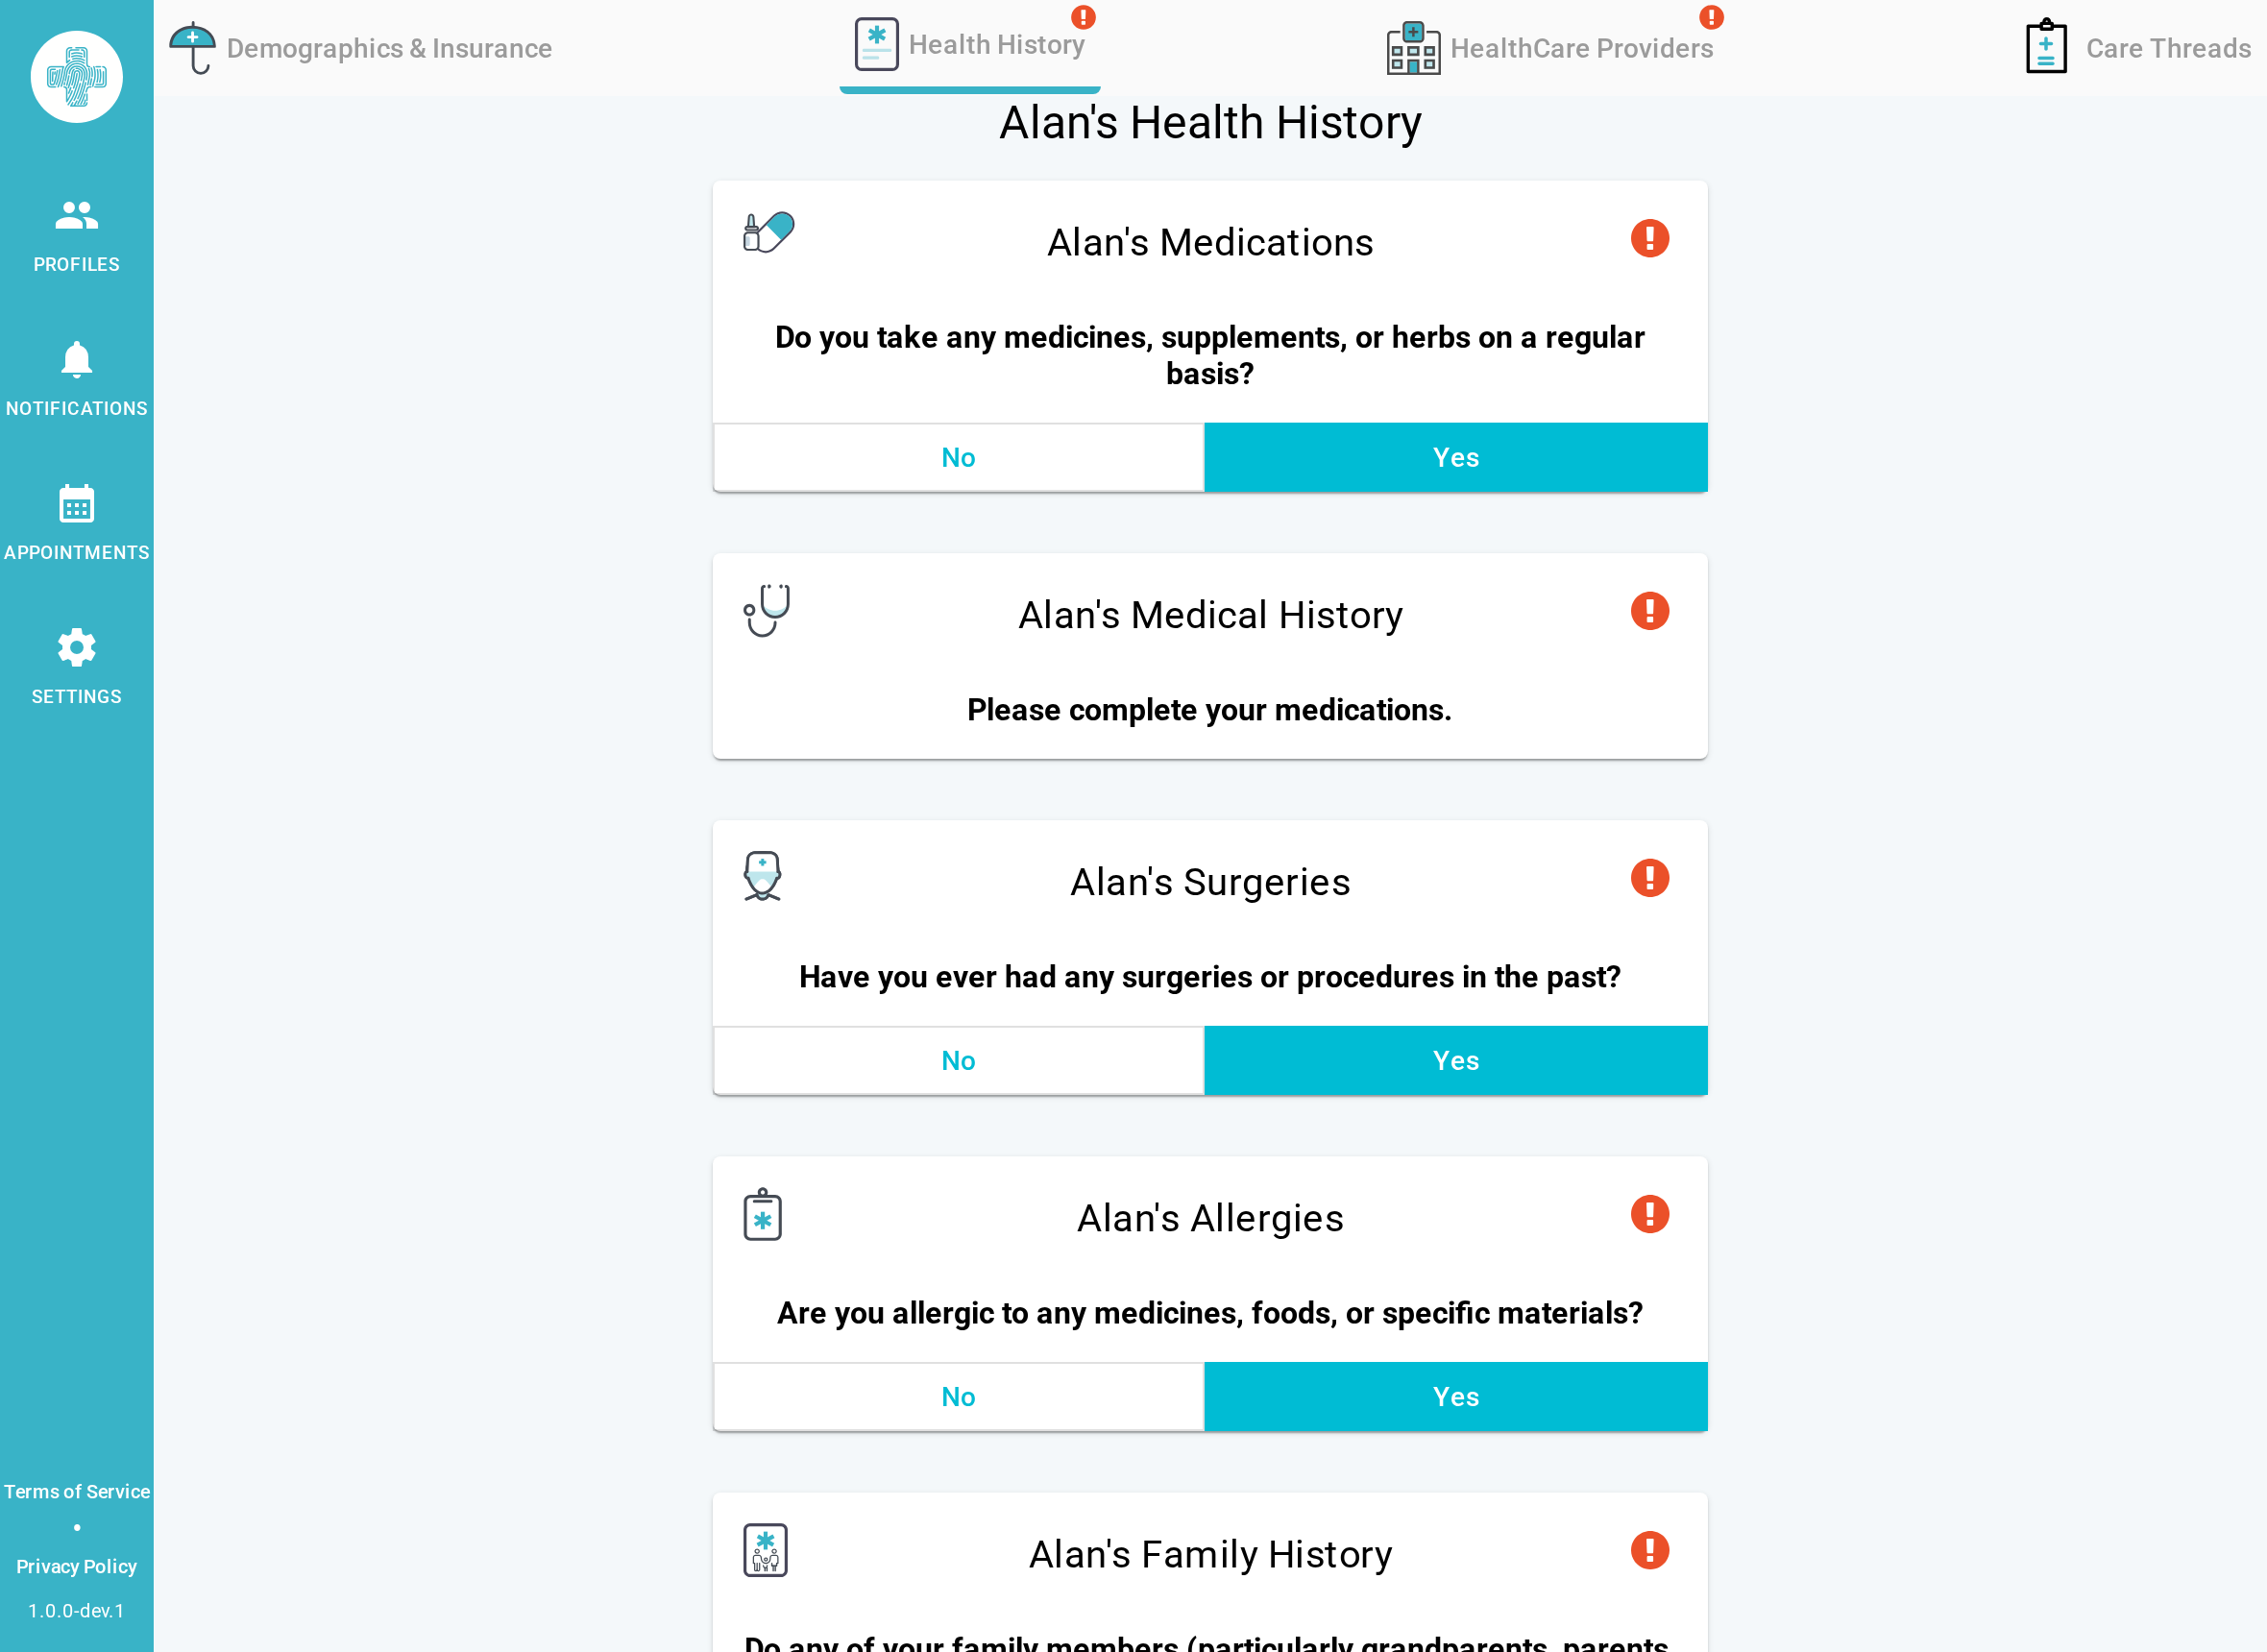
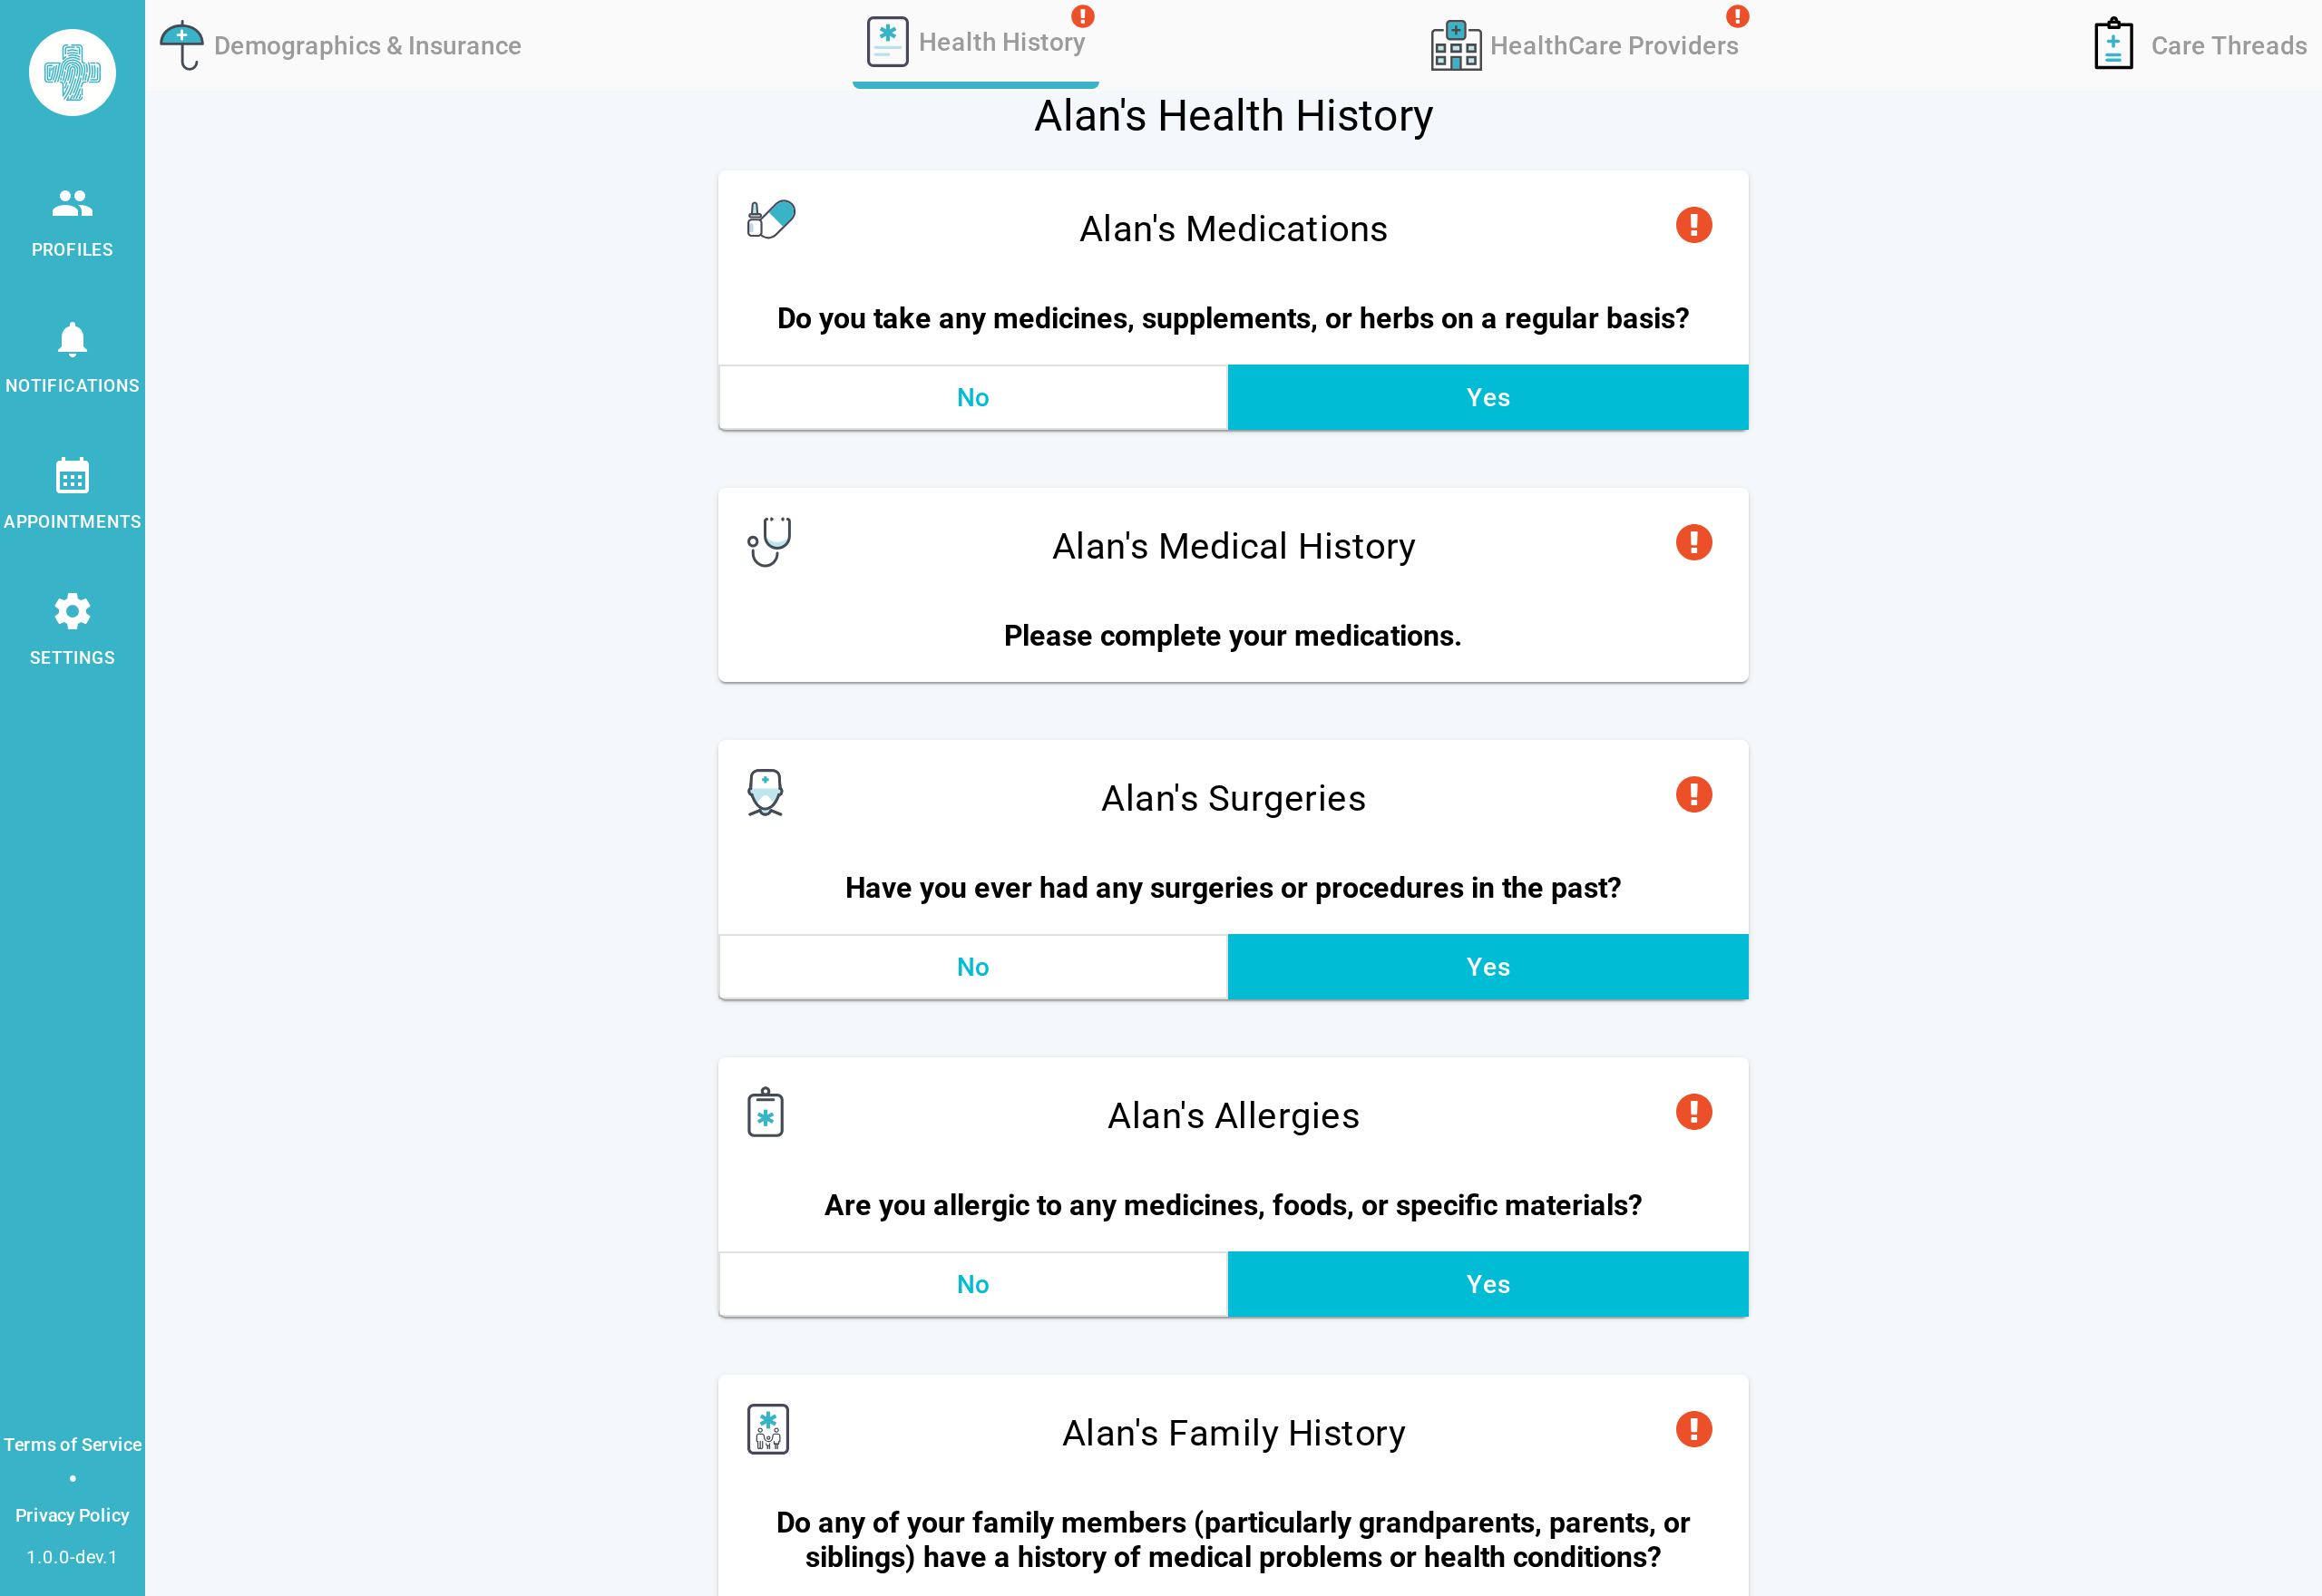
feat: Sympliact showcase — screenshot gallery, lightbox, overview + engineering
Turn the flagship Sympliact case study into a showcase:

- Fix the cropped/"smushed" screenshots — gallery thumbnails use a uniform
  16:10 frame; the lightbox shows each image full-size, uncropped.
- Add a 7-shot gallery across both apps (scheduling, patient roster, billing
  & metrics, health history, provider connections, appointments, care
  threads), all captured via each app's own mock harness (fake data, no PHI).
- Click-to-zoom lightbox with prev/next, keyboard (←/→/Esc), and backdrop close.
- Add a product OVERVIEW paragraph and an ENGINEERING technical-highlights
  section (architecture, state, auth, backend, test harness, CI/CD).
- Generic, optional data model (overview / engineering / gallery) so other
  projects can adopt the same treatment later.

Claude-Session: https://claude.ai/code/session_01Q8yTZH8pqvzmVm2hxh425N

diff --git a/src/styles/global.css b/src/styles/global.css
@@ -392,6 +392,99 @@ img.shot {
   width: 100%;
 }
 
+.readable { max-width: 820px; }
+
+/* ---- Screenshot gallery + lightbox ---- */
+.gallery {
+  display: grid;
+  grid-template-columns: repeat(3, 1fr);
+  gap: 12px;
+  margin-top: 12px;
+}
+.gallery-item {
+  display: block;
+  padding: 0;
+  margin: 0;
+  border: 1px solid var(--borderSoft);
+  border-radius: 9px;
+  overflow: hidden;
+  background: var(--panelBody);
+  cursor: zoom-in;
+  text-align: left;
+  transition: border-color 0.15s;
+}
+.gallery-item:hover { border-color: var(--accentBorder); }
+.gallery-item img {
+  width: 100%;
+  aspect-ratio: 16 / 10;
+  object-fit: cover;
+  object-position: top;
+  display: block;
+  transition: transform 0.25s ease;
+}
+.gallery-item:hover img { transform: scale(1.04); }
+.gallery-cap {
+  display: block;
+  font: 11px var(--mono);
+  color: var(--muted);
+  padding: 8px 10px;
+}
+
+.lightbox {
+  position: fixed;
+  inset: 0;
+  z-index: 100;
+  display: flex;
+  flex-direction: column;
+  align-items: center;
+  justify-content: center;
+  gap: 14px;
+  padding: 40px;
+  background: rgba(0, 0, 0, 0.88);
+  backdrop-filter: blur(3px);
+}
+.lightbox[hidden] { display: none; }
+.lb-img {
+  max-width: 92vw;
+  max-height: 82vh;
+  object-fit: contain;
+  border-radius: 8px;
+  box-shadow: 0 24px 70px rgba(0, 0, 0, 0.6);
+}
+.lb-cap { font: 12px var(--mono); color: #cfd3da; text-align: center; }
+.lb-close,
+.lb-prev,
+.lb-next {
+  position: absolute;
+  background: rgba(255, 255, 255, 0.06);
+  border: 1px solid rgba(255, 255, 255, 0.28);
+  color: #fff;
+  cursor: pointer;
+  border-radius: 8px;
+  line-height: 1;
+}
+.lb-close { top: 18px; right: 22px; font-size: 20px; padding: 6px 11px; }
+.lb-prev,
+.lb-next {
+  top: 50%;
+  transform: translateY(-50%);
+  font-size: 34px;
+  padding: 4px 16px;
+}
+.lb-prev { left: 18px; }
+.lb-next { right: 18px; }
+.lb-close:hover,
+.lb-prev:hover,
+.lb-next:hover { background: rgba(255, 255, 255, 0.16); }
+
+@media (max-width: 720px) {
+  .gallery { grid-template-columns: 1fr 1fr; }
+  .lb-prev, .lb-next { font-size: 24px; padding: 4px 10px; }
+}
+@media (max-width: 460px) {
+  .gallery { grid-template-columns: 1fr; }
+}
+
 /* ============================================================
    Article prose (Writing detail)
    ============================================================ */

diff --git a/src/scripts/ui.ts b/src/scripts/ui.ts
@@ -181,9 +181,70 @@ function startFavicon(): void {
   favTimer = window.setInterval(tick, BLINK_MS);
 }
 
+// ---- Screenshot gallery lightbox (case-study pages) ----
+let galleryKeysWired = false;
+
+function wireGallery(): void {
+  const items = Array.from(document.querySelectorAll<HTMLElement>('.gallery-item'));
+  const lb = document.getElementById('lightbox');
+  if (!items.length || !lb) return;
+
+  const img = lb.querySelector<HTMLImageElement>('.lb-img');
+  const cap = lb.querySelector<HTMLElement>('.lb-cap');
+  const prevBtn = lb.querySelector<HTMLElement>('.lb-prev');
+  const nextBtn = lb.querySelector<HTMLElement>('.lb-next');
+  const closeBtn = lb.querySelector<HTMLElement>('.lb-close');
+  if (!img || !cap || !prevBtn || !nextBtn || !closeBtn) return;
+
+  const shots = items.map((el) => ({
+    src: el.dataset.full ?? '',
+    caption: el.dataset.caption ?? ''
+  }));
+  let idx = 0;
+
+  const show = (i: number) => {
+    idx = (i + shots.length) % shots.length;
+    img.src = shots[idx].src;
+    img.alt = shots[idx].caption;
+    cap.textContent = shots[idx].caption;
+  };
+  const open = (i: number) => {
+    show(i);
+    lb.hidden = false;
+    document.body.style.overflow = 'hidden';
+  };
+  const close = () => {
+    lb.hidden = true;
+    document.body.style.overflow = '';
+  };
+
+  items.forEach((el, i) => (el.onclick = () => open(i)));
+  closeBtn.onclick = close;
+  prevBtn.onclick = (e) => { e.stopPropagation(); show(idx - 1); };
+  nextBtn.onclick = (e) => { e.stopPropagation(); show(idx + 1); };
+  lb.onclick = (e) => { if (e.target === lb) close(); }; // backdrop
+
+  if (!galleryKeysWired) {
+    galleryKeysWired = true;
+    document.addEventListener('keydown', (e) => {
+      const box = document.getElementById('lightbox');
+      if (!box || box.hidden) return;
+      if (e.key === 'Escape') {
+        box.hidden = true;
+        document.body.style.overflow = '';
+      } else if (e.key === 'ArrowLeft') {
+        box.querySelector<HTMLElement>('.lb-prev')?.click();
+      } else if (e.key === 'ArrowRight') {
+        box.querySelector<HTMLElement>('.lb-next')?.click();
+      }
+    });
+  }
+}
+
 /** Run on initial load and after every View Transition navigation. */
 export function initUI(): void {
   applyTheme();
   wireThemePicker();
   startFavicon();
+  wireGallery();
 }

diff --git a/src/data/portfolio.ts b/src/data/portfolio.ts
@@ -23,6 +23,12 @@ export interface Project {
   shotB: string;
   /** When set, shotA/shotB are real images under /public/<shotDir>/; otherwise they render as captioned placeholders. */
   shotDir?: string;
+  /** Optional product-overview paragraph shown above the case-study columns. */
+  overview?: string;
+  /** Optional technical-highlights bullets (architecture / engineering). */
+  engineering?: string[];
+  /** Optional screenshot gallery (real images under /public/<shotDir>/) with a lightbox. */
+  gallery?: { src: string; caption: string }[];
 }
 
 export const projects: Project[] = [
@@ -65,6 +71,25 @@ export const projects: Project[] = [
     shotA: "practice-scheduling.png",
     shotB: "patient-records.png",
     shotDir: "sympliact",
+    overview:
+      "Sympliact is a healthcare collaboration platform connecting medical practices with their patients. Practices run scheduling, patient management, and multi-channel patient communication from an admin web app; patients manage their own health records, connect to their providers, and message their care team from a companion app. Both are Angular PWAs sharing one Rails + GraphQL backend — built and owned end-to-end as the founding engineer over seven years, from an empty repo to production.",
+    engineering: [
+      "Two Angular PWAs (practice + patient) sharing typed GraphQL models against a Rails API — installable and offline-capable via a service worker.",
+      "NgRx (store + effects) for predictable state across both apps, with Angular Material and a custom design system for the UI.",
+      "Auth0 (Authorization Code + PKCE) authentication shared across the practice and patient experiences.",
+      "Rails + GraphQL backend on PostgreSQL, with Elasticsearch-powered patient search and Sidekiq background jobs.",
+      "A bespoke mocked Playwright acceptance harness — every screen exercises full flows against intercepted GraphQL with a forged Auth0 session, no backend required — behind an ~80% coverage gate.",
+      "CI/CD with semantic-release, Sentry error monitoring, and PostHog product analytics.",
+    ],
+    gallery: [
+      { src: "practice-scheduling.png", caption: "Practice · resource scheduling calendar" },
+      { src: "practice-patients.png", caption: "Practice · patient roster" },
+      { src: "practice-metrics.png", caption: "Practice · billing & metrics" },
+      { src: "patient-records.png", caption: "Patient · health history" },
+      { src: "patient-providers.png", caption: "Patient · provider connections" },
+      { src: "patient-appointments.png", caption: "Patient · upcoming appointments" },
+      { src: "patient-care-threads.png", caption: "Patient · care threads" },
+    ],
   },
   {
     id: "siriusxm",